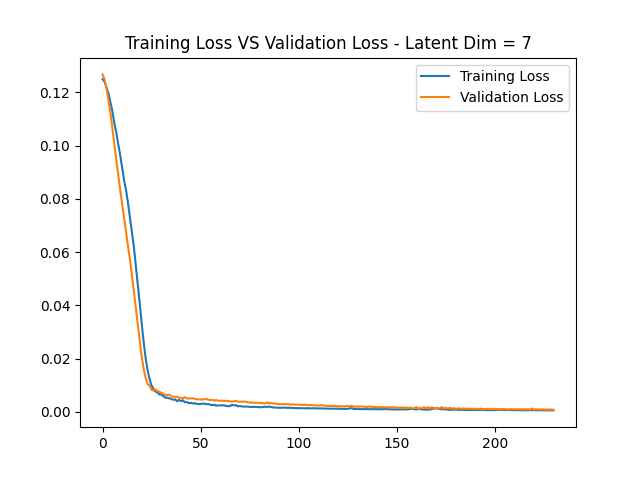
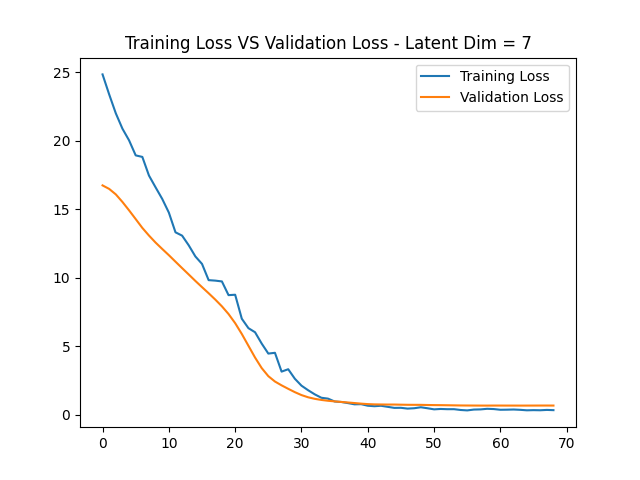
graphs are better now

diff --git a/project/main.py b/project/main.py
@@ -15,10 +15,10 @@ from tqdm import tqdm
 
 ##########IMPORT PARAMETERS##########
 cwd = os.getcwd()
-dir_names = ['MESA-Web_M07_Z00001', 'MESA-Web_M07_Z002']  # type 'all' if you want to use all the data
+dir_names = ['MESA-Web_M07_Z00001', 'MESA-Web_M10_Z002']  # type 'all' if you want to use all the data
 column_filter = ['mass', 'radius', 'initial_mass', 'initial_z', 'star_age', 'logRho', 'logT',
                  'Teff', 'energy', 'photosphere_L', 'photosphere_r', 'star_mass', 'h1', 'he3', 'he4']
-column_filter_train = ['logRho']  # radius is not included for coding reasons but is still considered
+column_filter_train = ['logRho','mass']  # radius is not included for coding reasons but is still considered
 n_points = 100  # n of points to sample from each profile
 r = np.linspace(0, 1, n_points + 1)[1:]  # values of normalized r on which to take the values of the variables
 
@@ -80,15 +80,16 @@ for i, dir_name in enumerate(tqdm(dir_names, desc="Importing data from directori
         norm_profiles = []
 
         for k, column in enumerate(column_filter_train):
-            norm = (filtered_profile_df[column] - filtered_profile_df[column].min()) / \
-                   (filtered_profile_df[column].max() - filtered_profile_df[column].min())
+            #norm = (filtered_profile_df[column] - filtered_profile_df[column].min()) / \
+            #       (filtered_profile_df[column].max() - filtered_profile_df[column].min())
+            norm = filtered_profile_df[column]
             norm = np.asarray(norm.T)
             int_norm = UnivariateSpline(norm_radius, norm, k=2, s=0)(r)
             norm_profiles.append(int_norm)
-            print("Length of this profile: ",len(norm_profiles))
+            #print("Length of this profile: ",len(norm_profiles))
 
         all_profiles.append(np.array(norm_profiles).T)
-        print("Num profiles: ", len(all_profiles))
+        #print("Num profiles: ", len(all_profiles))
 
 # Convert the list of profiles to a numpy array
 all_profiles = np.array(all_profiles)
@@ -99,14 +100,22 @@ x_train, x_test = train_test_split(all_profiles, test_size=0.2)
 print(x_train.shape)
 print(x_test.shape)
 
+# reshape in the form n_prof*(n_points*n_features)
+train_shape=x_train.shape
+test_shape=x_test.shape
+x_train=np.reshape(x_train,(train_shape[0],train_shape[1]*train_shape[2]),order="F")
+x_test=np.reshape(x_test,(test_shape[0],test_shape[1]*test_shape[2]),order="F")
+print(x_train.shape)
+print(x_test.shape)
+
 for i in range(1, 10):
     ###Autoencoder parameters
     encoder_neurons = [100, i]  # last value should be the latent dimension
     decoder_neurons = encoder_neurons[:len(encoder_neurons) - 1][::-1]  # same inverted values for the hidden layers
     decoder_neurons.append(n_points*len(column_filter_train))  # last value should be original size
-    encoder_activations = ['relu'] * len(encoder_neurons)  # with relu better learning
-    decoder_activations = ['relu'] * (len(encoder_neurons) - 1)  # relu for better learning
-    decoder_activations.append('sigmoid')  # at least the last value should be sigmoid
+    encoder_activations = ['leaky_relu'] * len(encoder_neurons)  # with relu better learning
+    decoder_activations = ['leaky_relu'] * (len(encoder_neurons) - 1)  # relu for better learning
+    decoder_activations.append('leaky_relu')  # at least the last value should be sigmoid
 
     autoencoder = Autoencoder(encoder_neurons=encoder_neurons, decoder_neurons=decoder_neurons,
                               encoder_activations=encoder_activations, decoder_activations=decoder_activations)
@@ -133,21 +142,34 @@ for i in range(1, 10):
     print(x_reconstructed.shape)
 
     # Plot and save original vs reconstructed profiles
-    n = 10  # How many profiles we will display
-    plt.figure(figsize=(20, 4))
-    plt.axis("off")
-    plt.title(f'Examples of fit with latent dimension = {i}')
-    for j in range(n):
+    n=5
+    
+    for k,feature in enumerate(column_filter_train):
+        plt.figure(figsize=(20, 10))
+        plt.axis("off")
+        plt.title(f'Examples of fit of feature {feature} with latent dimension = {i}')
         # Display original
-        ax = plt.subplot(2, n, j + 1)
-        plt.scatter(r, x_test[j].reshape(-1, n_points)[0])
-        plt.gray()
+        for j in range(n):
+            print(x_test)
+            print(x_test.shape)
+            original_data=x_test[j,k*n_points:(k+1)*n_points]
+            print(original_data.shape)
+            reconstructed_data=x_reconstructed[j,k*n_points:(k+1)*n_points]
+            print(reconstructed_data.shape)
+            diff=original_data-reconstructed_data
 
-        # Display reconstruction
-        ax = plt.subplot(2, n, j + 1 + n)
-        plt.scatter(r, x_reconstructed[j].reshape(-1, n_points)[0])
-        plt.gray()
+            ax = plt.subplot(2, n, j + 1)
+            plt.scatter(r, original_data,c="blue",label="original")
+            plt.scatter(r, reconstructed_data,c="red",label="reconstructed")
+            plt.legend()
+            plt.gray()
 
-    file_save_dir = os.path.join(os.getcwd(), "Graphs", f"OriginalReconstructed_{i}.png")
-    plt.savefig(file_save_dir)
-    plt.close()
+            #Display reconstruction
+            ax = plt.subplot(2, n, j + 1 + n)
+            plt.scatter(r, diff,label="Original-Reconstructed",c="green")
+            plt.legend()
+            plt.gray()
+
+        file_save_dir = os.path.join(os.getcwd(), "Graphs", f"OriginalReconstructed_{i}_{feature}.png")
+        plt.savefig(file_save_dir)
+        plt.close()
